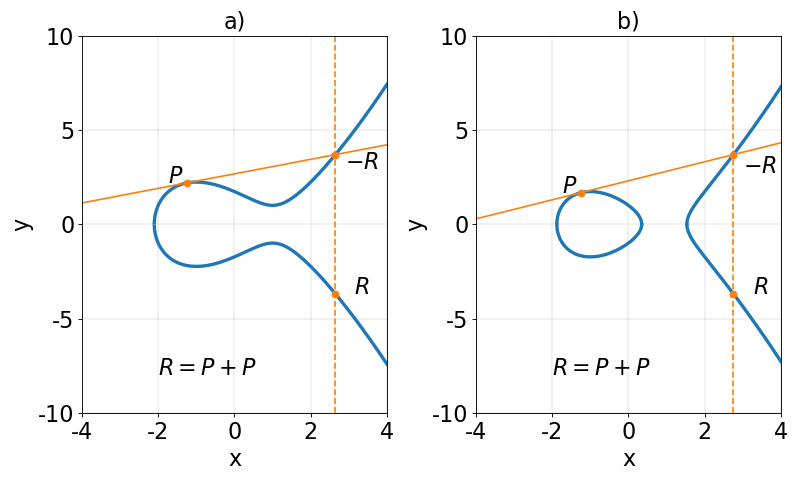
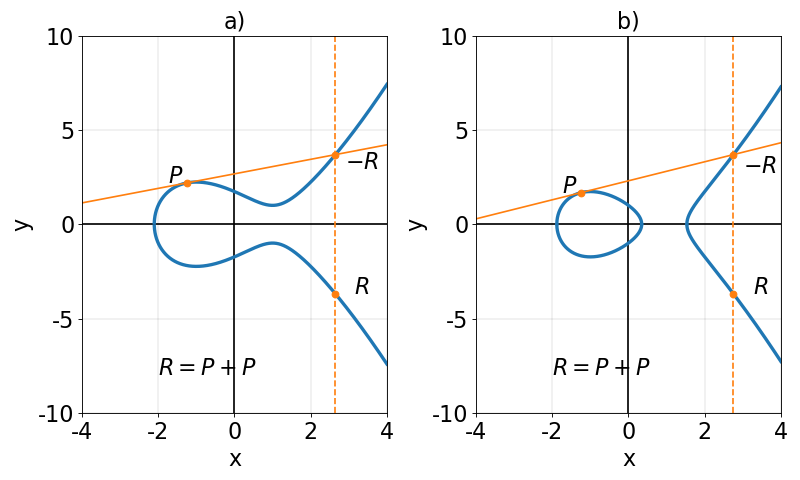
done

Changed region(s): [[0.5938, 0.4375, 0.9688, 0.4688], [0.125, 0.4375, 0.4688, 0.4688]]

diff --git a/python_crypto/Essai_figures/ecc_real.py b/python_crypto/Essai_figures/ecc_real.py
@@ -48,6 +48,8 @@ ax1.grid(visible=True, which='major', axis='both', color='k', linestyle='-', lin
 ax1.text(-2, 6, r"$y^2 = x^3 - 3x + 3$", fontsize=fontsize)
 ax1.text(-2, -5, r"$4a^3 - 27b^2 < 0$", fontsize=fontsize)
 ax1.text(-2, -6.5, "(non-singulier)", fontsize=fontsize)
+ax1.plot([xmin, xmax], [0, 0], c='k', zorder=1)
+ax1.plot([0, 0], [ymin, ymax], c='k', zorder=1)
 
 ax2 = fig.add_subplot(1,3,2)
 x, y1, y2 = ecc_real(t, -3, 2)
@@ -66,6 +68,8 @@ ax2.grid(visible=True, which='major', axis='both', color='k', linestyle='-', lin
 ax2.text(-2, 6, r"$y^2 = x^3 - 3x + 2$", fontsize=fontsize)
 ax2.text(-2, -5, r"$4a^3 - 27b^2 = 0$", fontsize=fontsize)
 ax2.text(-2, -6.5, "(singulier)", fontsize=fontsize)
+ax2.plot([xmin, xmax], [0, 0], c='k', zorder=1)
+ax2.plot([0, 0], [ymin, ymax], c='k', zorder=1)
 
 ax3 = fig.add_subplot(1,3,3)
 x, y1, y2 = ecc_real(t1, -3, 1)
@@ -87,6 +91,8 @@ ax3.grid(visible=True, which='major', axis='both', color='k', linestyle='-', lin
 ax3.text(-2, 6, r"$y^2 = x^3 - 3x + 1$", fontsize=fontsize)
 ax3.text(-2, -5, r"$4a^3 - 27b^2 > 0$", fontsize=fontsize)
 ax3.text(-2, -6.5, "(non-singulier)", fontsize=fontsize)
+ax3.plot([xmin, xmax], [0, 0], c='k', zorder=1)
+ax3.plot([0, 0], [ymin, ymax], c='k', zorder=1)
 
 plt.tight_layout()
 plt.savefig(path)

diff --git a/python_crypto/Essai_figures/ecc_neg.py b/python_crypto/Essai_figures/ecc_neg.py
@@ -56,6 +56,8 @@ ax1.plot([-1, -1], [-f(-1, a, b), f(-1, a, b)], c=u'#ff7f0e')
 ax1.scatter([-1, -1], [-f(-1, a, b), f(-1, a, b)], c=u'#ff7f0e', zorder=2)
 ax1.text(-1, 2.5, r"$P$", fontsize=fontsize)
 ax1.text(-1, -3.5, r"$Q=-P$", fontsize=fontsize)
+ax1.plot([xmin, xmax], [0, 0], c='k', zorder=1)
+ax1.plot([0, 0], [ymin, ymax], c='k', zorder=1)
 
 ax2 = fig.add_subplot(1,2,2)
 a = -3
@@ -80,6 +82,8 @@ ax2.plot([-1, -1], [-f(-1, a, b), f(-1, a, b)], c=u'#ff7f0e')
 ax2.scatter([-1, -1], [-f(-1, a, b), f(-1, a, b)], c=u'#ff7f0e', zorder=2)
 ax2.text(-1, 2.5, r"$P$", fontsize=fontsize)
 ax2.text(-1, -3.5, r"$Q=-P$", fontsize=fontsize)
+ax2.plot([xmin, xmax], [0, 0], c='k', zorder=1)
+ax2.plot([0, 0], [ymin, ymax], c='k', zorder=1)
 
 
 plt.tight_layout()

diff --git a/python_crypto/Essai_figures/ecc_add_diff.py b/python_crypto/Essai_figures/ecc_add_diff.py
@@ -79,6 +79,8 @@ ax1.text(x2+0.25, y2+0.25, r"$Q$", fontsize=fontsize)
 ax1.text(x4+0.25, y4-0.75, r"$-R$", fontsize=fontsize)
 ax1.text(x3+0.5, y3, r"$R$", fontsize=fontsize)
 ax1.text(-2, -8, r"$R=P+Q$", fontsize=fontsize)
+ax1.plot([xmin, xmax], [0, 0], c='k', zorder=1)
+ax1.plot([0, 0], [ymin, ymax], c='k', zorder=1)
 
 ax2 = fig.add_subplot(1, 2, 2)
 a = -3
@@ -116,6 +118,8 @@ ax2.text(x2+0.25, y2+0.25, r"$Q$", fontsize=fontsize)
 ax2.text(x4+0.25, y4-1, r"$-R$", fontsize=fontsize)
 ax2.text(x3+0.5, y3, r"$R$", fontsize=fontsize)
 ax2.text(-2, -8, r"$R=P+Q$", fontsize=fontsize)
+ax2.plot([xmin, xmax], [0, 0], c='k', zorder=1)
+ax2.plot([0, 0], [ymin, ymax], c='k', zorder=1)
 
 plt.tight_layout()
 plt.savefig(path)

diff --git a/python_crypto/Essai_figures/ecc_add_tan.py b/python_crypto/Essai_figures/ecc_add_tan.py
@@ -78,6 +78,8 @@ ax1.text(x1-0.5, y1, r"$P$", fontsize=fontsize)
 ax1.text(x4+0.25, y4-0.75, r"$-R$", fontsize=fontsize)
 ax1.text(x3+0.5, y3, r"$R$", fontsize=fontsize)
 ax1.text(-2, -8, r"$R=P+P$", fontsize=fontsize)
+ax1.plot([xmin, xmax], [0, 0], c='k', zorder=1)
+ax1.plot([0, 0], [ymin, ymax], c='k', zorder=1)
 
 ax2 = fig.add_subplot(1, 2, 2)
 a = -3
@@ -114,6 +116,8 @@ ax2.text(x1-0.5, y1, r"$P$", fontsize=fontsize)
 ax2.text(x4+0.25, y4-1, r"$-R$", fontsize=fontsize)
 ax2.text(x3+0.5, y3, r"$R$", fontsize=fontsize)
 ax2.text(-2, -8, r"$R=P+P$", fontsize=fontsize)
+ax2.plot([xmin, xmax], [0, 0], c='k', zorder=1)
+ax2.plot([0, 0], [ymin, ymax], c='k', zorder=1)
 
 plt.tight_layout()
 plt.savefig(path)
